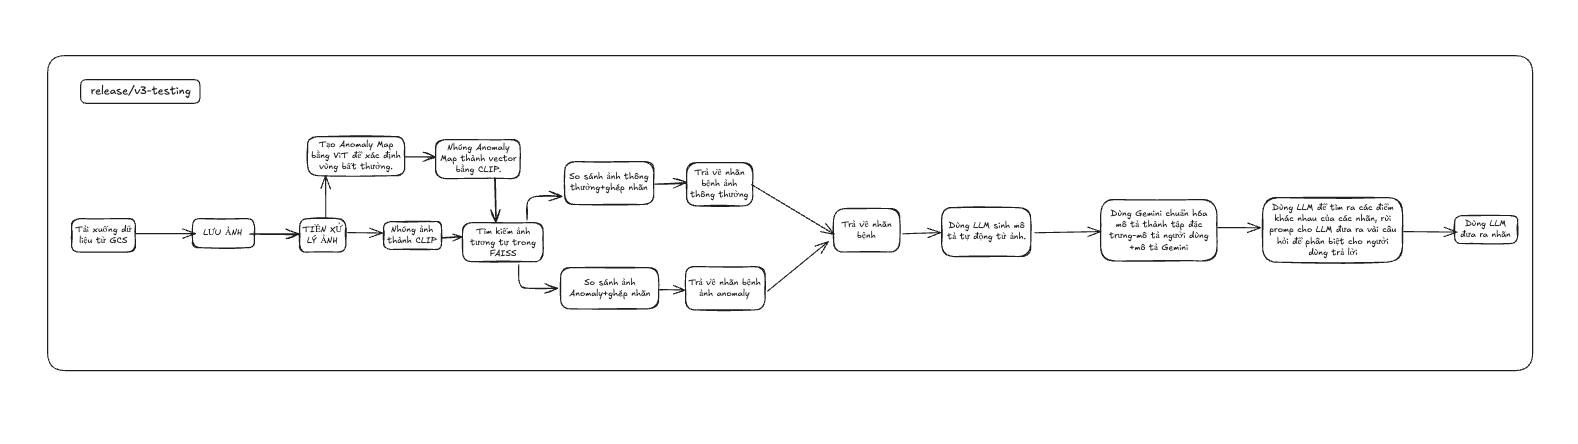
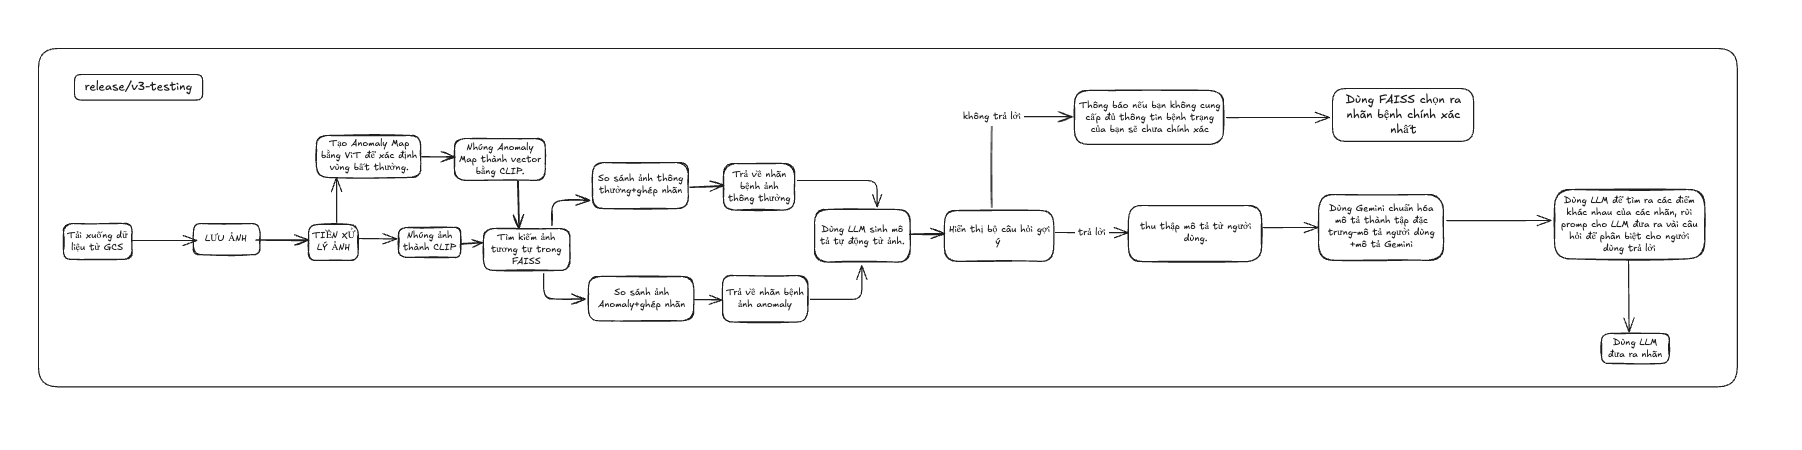
fix: sửa quy trình

diff --git a/app/test.py b/app/test.py
@@ -19,6 +19,7 @@ from typing import Optional
 import logging
 from PIL import Image
 import textwrap
+from collections import Counter
 import re
 from sklearn.metrics.pairwise import cosine_similarity
 logging.basicConfig(level=logging.INFO, format='%(asctime)s - %(levelname)s - %(message)s')
@@ -238,14 +239,22 @@ def extract_keywords(text, field):
     return ", ".join(matched) if matched else text
 
 def collect_user_description():
-    print("Thu thập mô tả của bệnh nhân (hoặc nhấn Enter để bỏ qua):\n")
+    print("Bạn có muốn trả lời một vài câu hỏi để giúp chẩn đoán chính xác hơn không?")
+    choice = input("Nhập 'y' để trả lời hoặc 'n' để bỏ qua: ").strip().lower()
+
+    if choice != 'y':
+        print("\nBạn đã chọn không trả lời các câu hỏi.")
+        print("Thông báo: Nếu bạn không cung cấp đủ thông tin, bệnh trạng của bạn sẽ chưa chính xác.\n")
+        return None  # Người dùng không cung cấp mô tả
+
     try:
-        print("Bắt đầu thu thập mô tả bệnh, bệnh nhân vui lòng trả lời các câu hỏi sau:")
-        location = input("Cho mình hỏi bạn, bạn có thể cho biết vị trí của bệnh không? (Ví dụ: đầu gối, cổ tay,...)\n")
-        duration = input("Thời gian bạn bị bệnh là bao lâu rồi? (Ví dụ: 1 tuần, 2 tháng,...)\n")
-        appearance = input("Hình dạng của bệnh như thế nào? (Ví dụ: đỏ, sưng,...)\n")
-        feeling = input("Bạn cảm thấy như thế nào? (Ví dụ: đau, ngứa,...)\n")
-        spreading = input("Bệnh có lan rộng không? (Ví dụ: có, không)\n")
+        print("\nBắt đầu thu thập mô tả bệnh, vui lòng trả lời các câu hỏi sau:")
+        location = input("1. Vị trí của bệnh? (VD: đầu gối, cổ tay,...)\n")
+        duration = input("2. Thời gian bị bệnh? (VD: 1 tuần, 2 tháng,...)\n")
+        appearance = input("3. Hình dạng hoặc màu sắc vùng bệnh? (VD: đỏ, sưng,...)\n")
+        feeling = input("4. Cảm giác của bạn? (VD: đau, ngứa,...)\n")
+        spreading = input("5. Bệnh có lan rộng không? (VD: có, không)\n")
+
         location = extract_keywords(location, "location")
         duration = extract_keywords(duration, "duration")
         appearance = extract_keywords(appearance, "appearance")
@@ -255,13 +264,15 @@ def collect_user_description():
         description = (
             f"Triệu chứng xuất hiện ở {location}, đã kéo dài {duration}. "
             f"Vùng da có biểu hiện {appearance} và cảm giác {feeling}. "
-            f"Triệu chứng: {spreading} lan rộng.")
-        print("Đây là mô tả bệnh bạn đã cung cấp:\n")
+            f"Triệu chứng: {spreading} lan rộng."
+        )
+
+        print("\nĐây là mô tả bệnh bạn đã cung cấp:\n")
         print(description)
 
-        confirm = input("Bạn có muốn xác nhận mô tả này không? (y/n): ").strip().lower()
+        confirm = input("\nBạn có muốn xác nhận mô tả này không? (y/n): ").strip().lower()
         if confirm == 'y':
-            print("Mô tả bệnh của bạn đã được ghi nhận")
+            print("Mô tả bệnh của bạn đã được ghi nhận.")
             return description
         else:
             retry = input("Bạn muốn nhập lại mô tả bệnh? (y/n): ").strip().lower()
@@ -402,8 +413,14 @@ def process_image(image_path):
                 anomaly_result_labels = search_similar_images(anomaly_map_embedding)
                 print("Kết quả tìm kiếm từ Anomaly Map:", anomaly_result_labels)
     final_labels = combine_labels(result_labels, anomaly_result_labels)
-    print("Chuỗi mô tả bệnh tổng hợp:", final_labels)
     return final_labels, result_labels, anomaly_result_labels
+
+def decide_final_label(label_string):
+    labels = label_string.split()
+    processed_labels = [label.split('-', 1)[1] if '-' in label else label for label in labels]
+    counter = Counter(processed_labels)
+    most_common_two = counter.most_common(1)
+    return most_common_two[0][0]
 
 def filter_incorrect_labels_by_user_description(description: str, labels: list[str]) -> str:
     prompt = textwrap.dedent(f"""
@@ -433,13 +450,21 @@ def filter_incorrect_labels_by_user_description(description: str, labels: list[s
     except Exception as e:
         print(f"Lỗi khi tạo mô tả với Gemini: {e}")
         return None
+    
 def mainclient():
     download_from_gcs()
     load_faiss_index()
     image_path = "app/static/img_test/cellulitis.webp"
     print("File tồn tại:", os.path.exists(image_path))
     final_labels, result_labels, anomaly_result_labels=process_image(image_path)
+    print("Chuỗi mô tả bệnh tổng hợp:", final_labels)
     user_description = collect_user_description()
+    if not user_description:
+        print("\nĐang chọn nhãn dựa trên hình ảnh và mô hình...")
+        final_diagnosis = decide_final_label(final_labels)
+        print(f"\nKết quả sơ bộ: {final_diagnosis}")
+        print("Thông báo: Vì bạn không cung cấp mô tả, kết quả có thể chưa chính xác.")
+        return
     image_description = generate_description_with_Gemini(image_path)
     print("Mô tả từ ảnh (Gemini):", image_description)
     result_medical_entities = generate_medical_entities(user_description, image_description)
